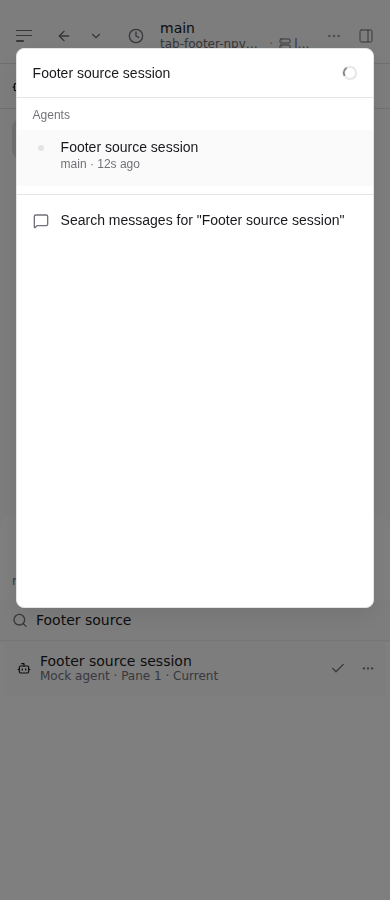
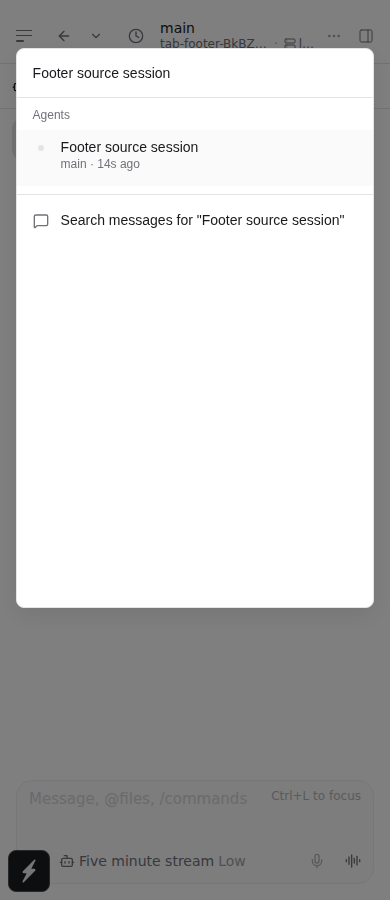
fix: restore tab switcher invoker after session search (pspin-45p)

diff --git a/packages/app/src/workspace-tabs/search-picker.tsx b/packages/app/src/workspace-tabs/search-picker.tsx
@@ -105,6 +105,7 @@ export function WorkspaceTabSearchPicker({
     new Map(),
   );
   const anchorRef = useRef<View>(null);
+  const invocationFocusRef = useRef<HTMLElement | null>(null);
   const shortcutKeys = useShortcutKeys("workspace-tab-search");
   const layout = useWorkspaceLayoutStore((state) => state.layoutByWorkspace[workspaceKey] ?? null);
   const explorerPaneId = useWorkspaceLayoutStore((state) =>
@@ -124,12 +125,19 @@ export function WorkspaceTabSearchPicker({
       return new Map(previous).set(presentation.key, presentation);
     });
   }, []);
-  const openPicker = useCallback((keyboard = false) => {
-    // Repeated invocations keep the current query/highlight, including through live updates.
-    setKeyboardInvocation(keyboard);
-    if (!keyboard) Keyboard.dismiss();
-    setOpen(true);
-  }, []);
+  const openPicker = useCallback(
+    (keyboard = false) => {
+      // Repeated invocations keep the query, highlight and original focus-return target.
+      if (!open && isWeb) {
+        invocationFocusRef.current =
+          document.activeElement instanceof HTMLElement ? document.activeElement : null;
+      }
+      setKeyboardInvocation(keyboard);
+      if (!keyboard) Keyboard.dismiss();
+      setOpen(true);
+    },
+    [open],
+  );
   useEffect(() => {
     if (!enabled) setOpen(false);
   }, [enabled]);
@@ -249,7 +257,7 @@ export function WorkspaceTabSearchPicker({
     const openCenter = () => {
       if (isWeb)
         setCommandCenterFocusRestoreElement(
-          document.activeElement instanceof HTMLElement ? document.activeElement : null,
+          invocationFocusRef.current?.isConnected ? invocationFocusRef.current : null,
         );
       useKeyboardShortcutsStore.getState().setCommandCenterOpen(true, null, initialQuery);
     };

diff --git a/packages/app/e2e/browser/workspace-tab-search.spec.ts b/packages/app/e2e/browser/workspace-tab-search.spec.ts
@@ -277,6 +277,8 @@ for (const compact of [false, true]) {
       const center = page.getByTestId("command-center-panel");
       const globalSearch = center.getByTestId("command-center-input");
       await expect(globalSearch).toHaveValue("Footer source");
+      // Wait for the old picker to finish unmounting before proving typing stays here.
+      await expect(search).toHaveCount(0);
       await expect(globalSearch).toBeFocused();
       await page.keyboard.type(" session");
       await expect(globalSearch).toHaveValue("Footer source session");

diff --git a/docs/qa/workspace-tab-search.md b/docs/qa/workspace-tab-search.md
@@ -77,6 +77,13 @@ keyboard/read states, a fixed close target after marking read, and regular `elli
 out and reloading. Captures cover normal/long, unread-active, hover, keyboard focus, narrow width and
 the setting off. Full accessible names and existing title tooltips are retained.
 
+After the combined run, a stronger check waited for the old picker to unmount before typing. It
+exposed compact Escape returning to a disconnected footer. The final fix retains the original
+invoking element across the handoff and repeated opens. Focused lint/app typecheck and the strengthened
+**2/2 desktop/compact flows passed** after this fix; the refreshed handoff captures show the old
+picker fully gone. Origin independently reviewed both the source and the corrected compact capture.
+No additional broad retest ran after this focused correction.
+
 Both desktop and compact **keyboard footer handoff** flows passed with matching results present:
 native Tab reaches the footer, Enter opens Cmd+K with the typed query, subsequent typing stays in
 the global search input, and Escape restores the original invoker. The footer carries the same
